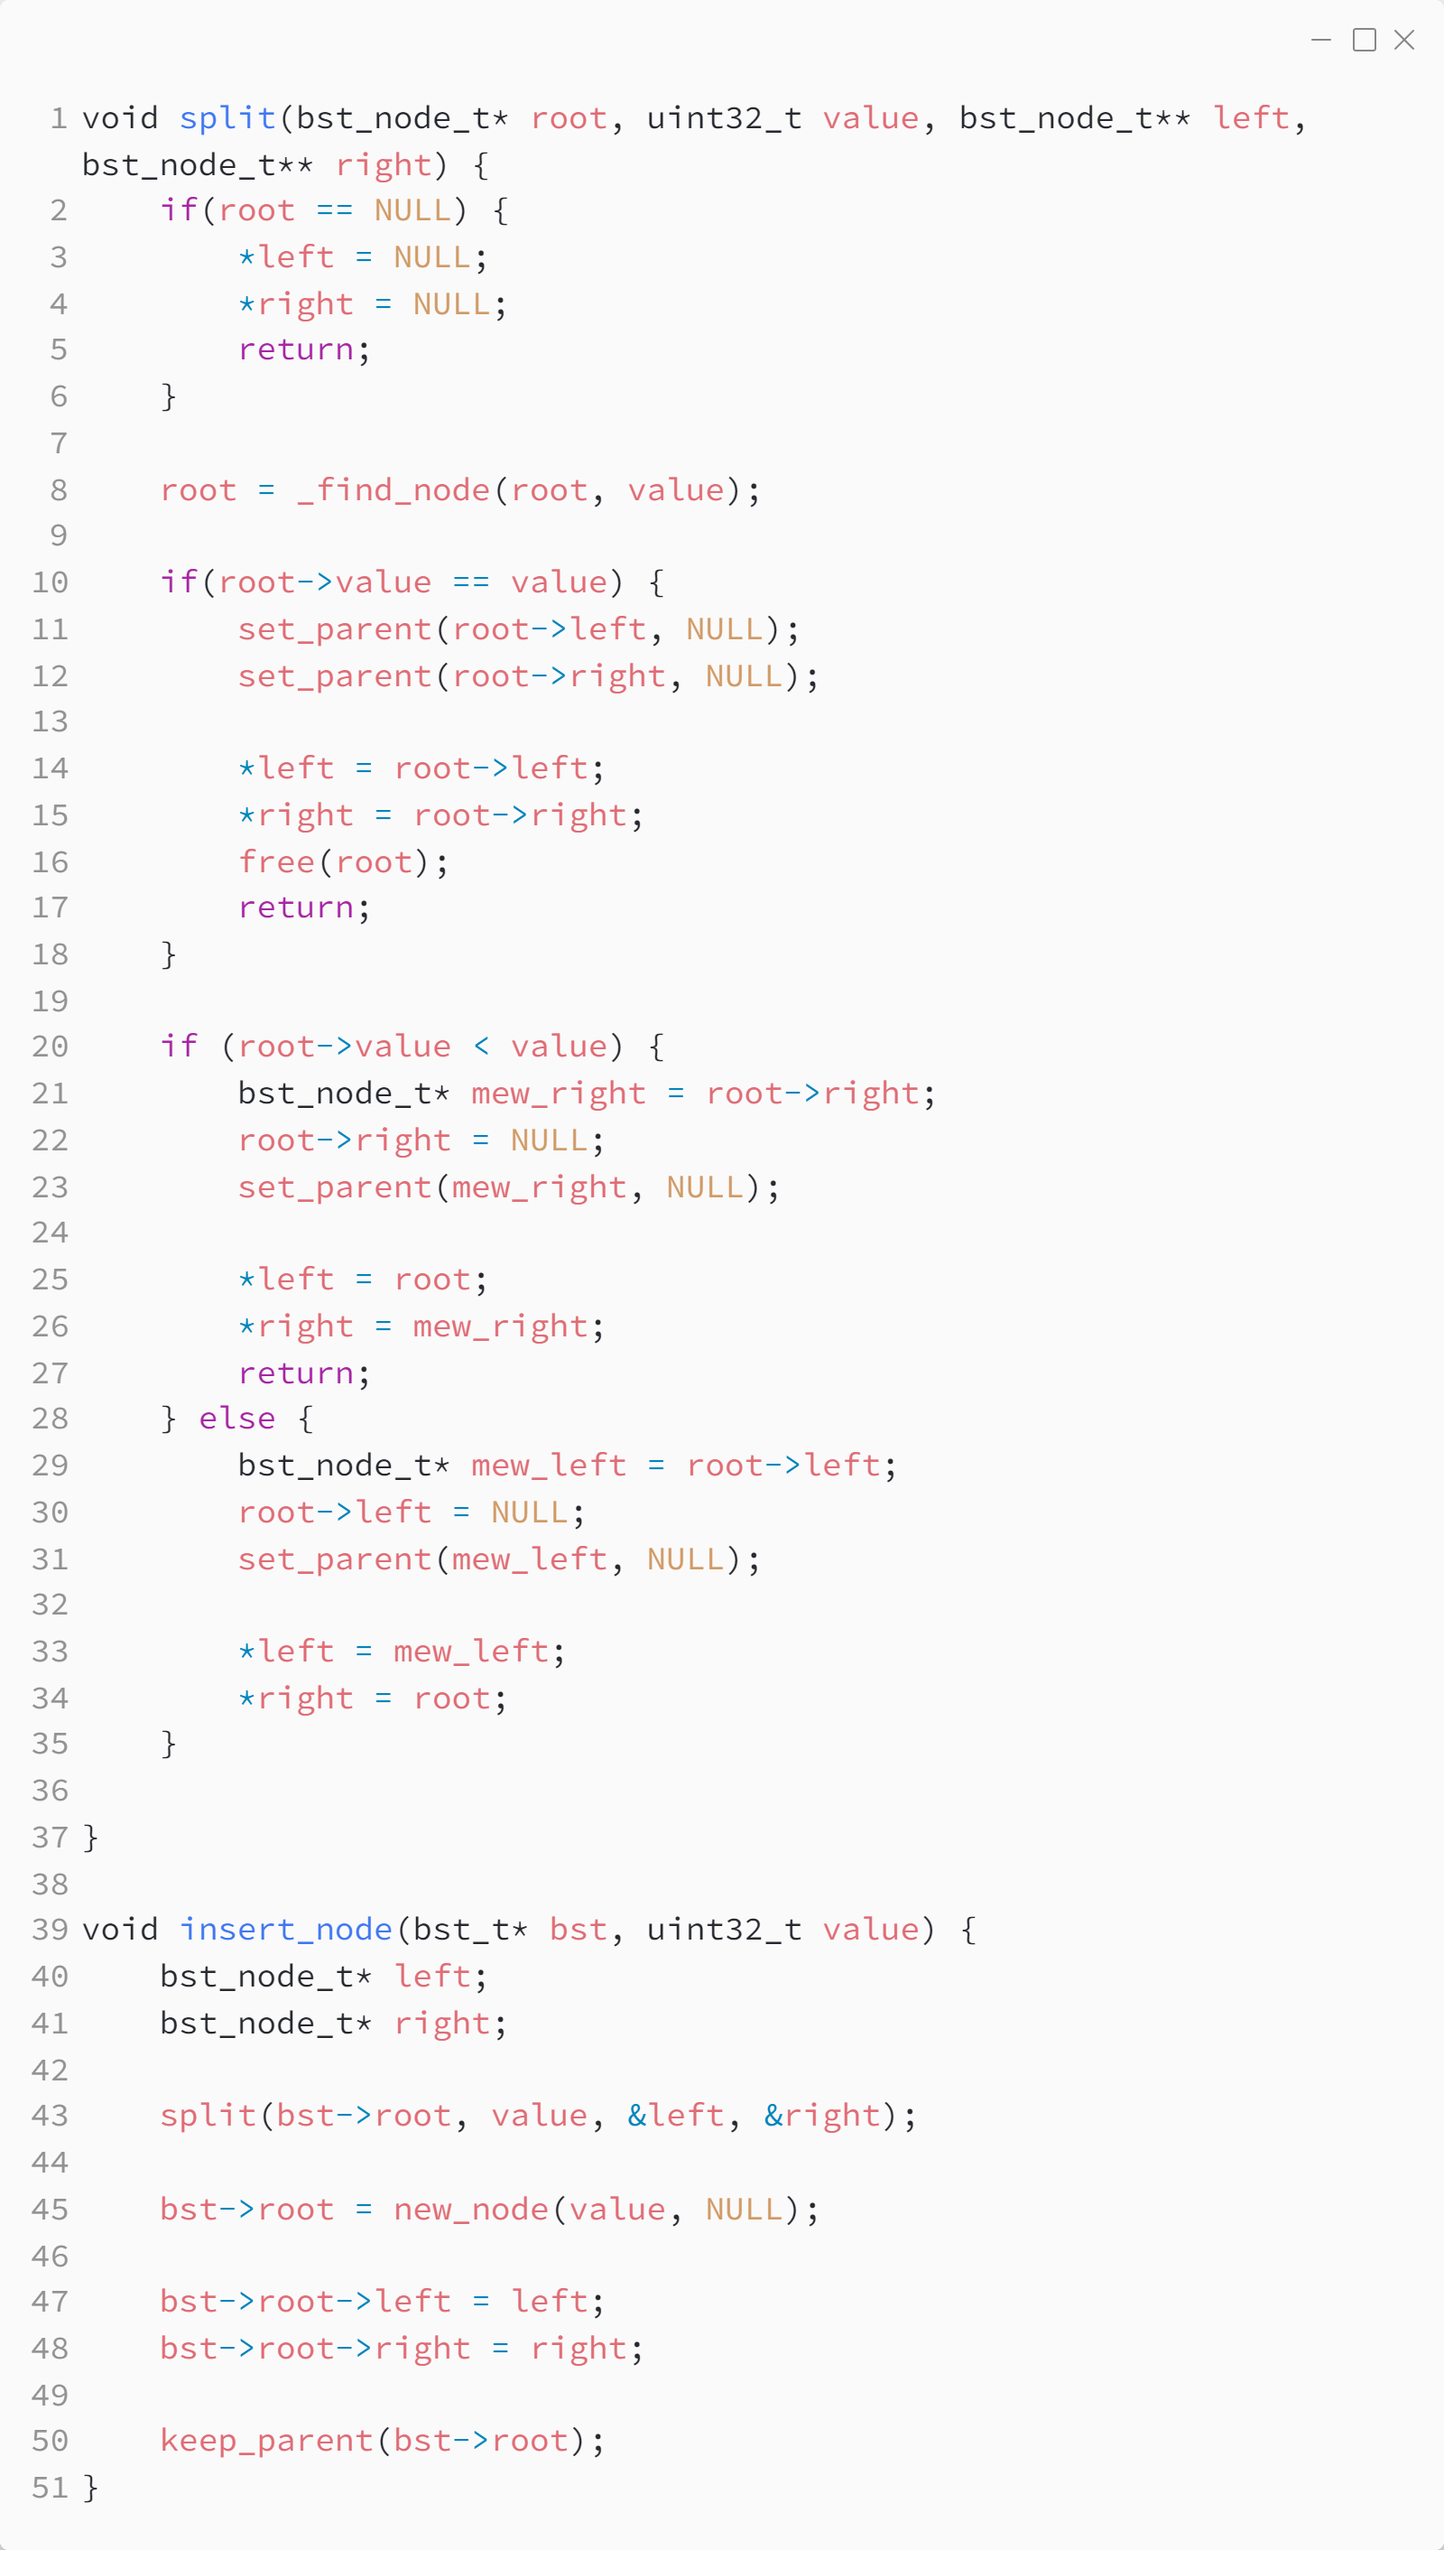
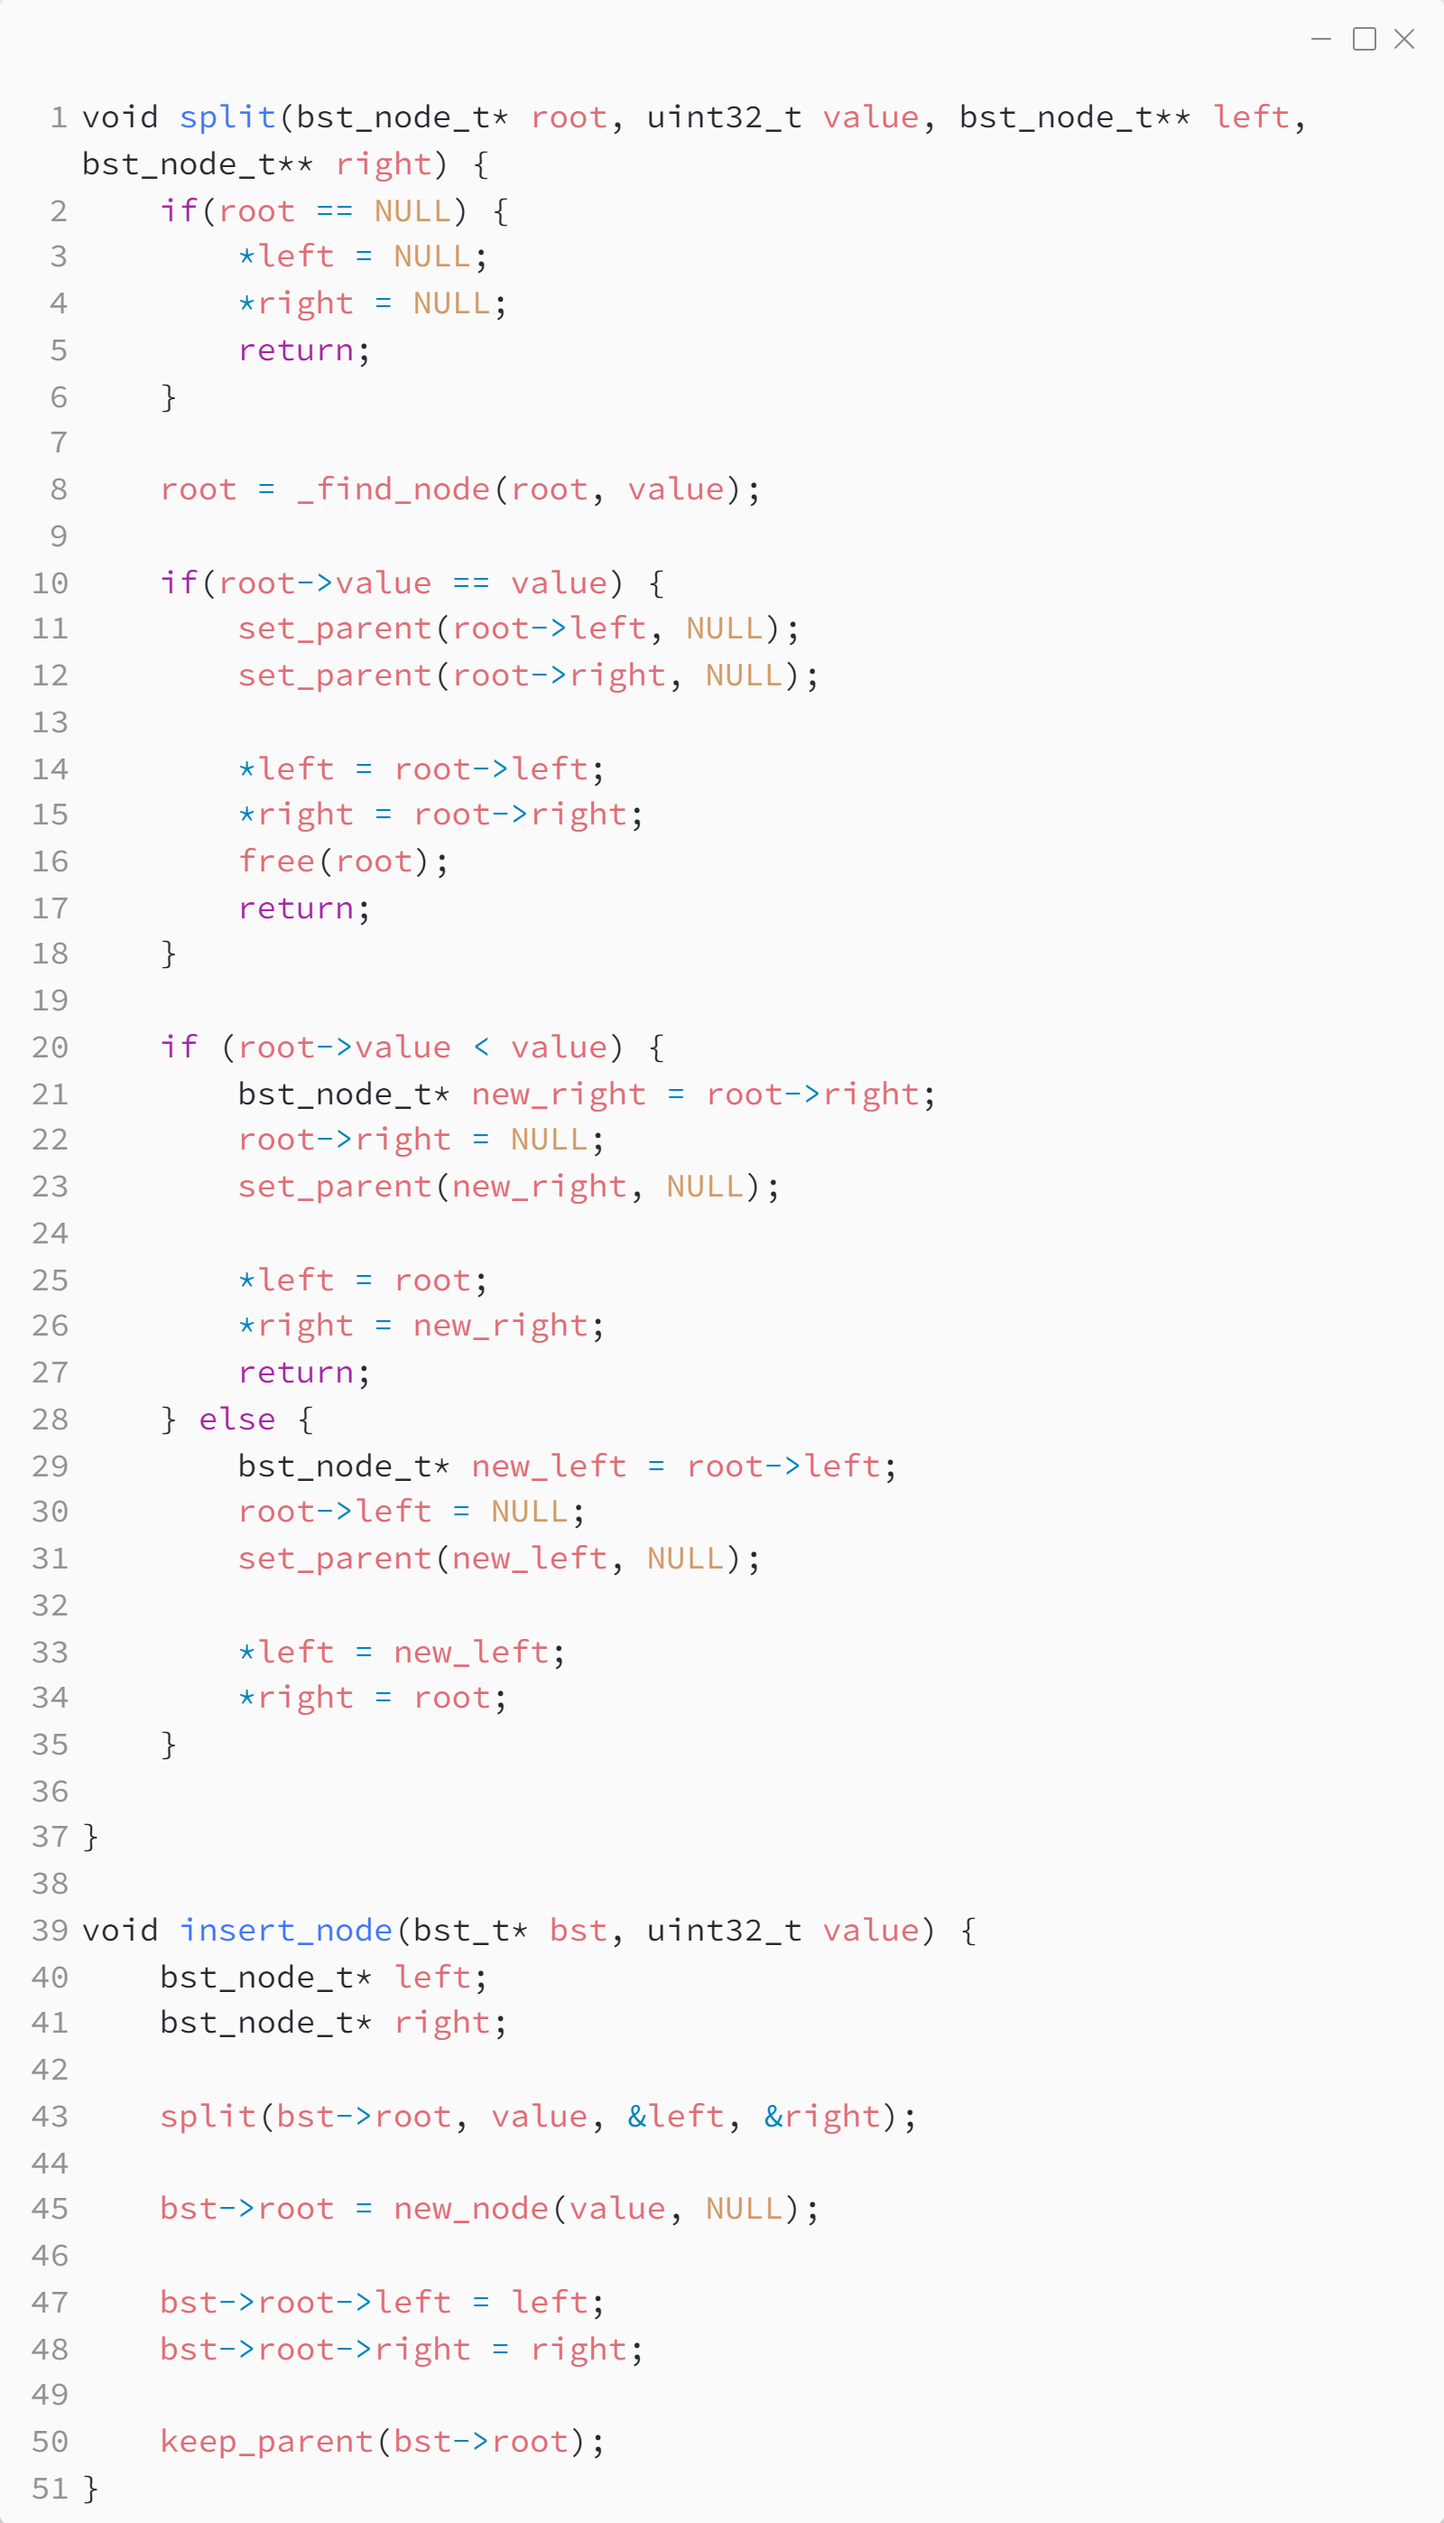
Fix typo

diff --git a/9_bst_splay/practice/src/bst_splay.c b/9_bst_splay/practice/src/bst_splay.c
@@ -151,19 +151,19 @@ void split(bst_node_t* root, uint32_t value, bst_node_t** left, bst_node_t** rig
     }
 
     if (root->value < value) {
-        bst_node_t* mew_right = root->right;
+        bst_node_t* new_right = root->right;
         root->right = NULL;
-        set_parent(mew_right, NULL);
+        set_parent(new_right, NULL);
 
         *left = root;
-        *right = mew_right;
+        *right = new_right;
         return;
     } else {
-        bst_node_t* mew_left = root->left;
+        bst_node_t* new_left = root->left;
         root->left = NULL;
-        set_parent(mew_left, NULL);
+        set_parent(new_left, NULL);
 
-        *left = mew_left;
+        *left = new_left;
         *right = root;
     }
 
